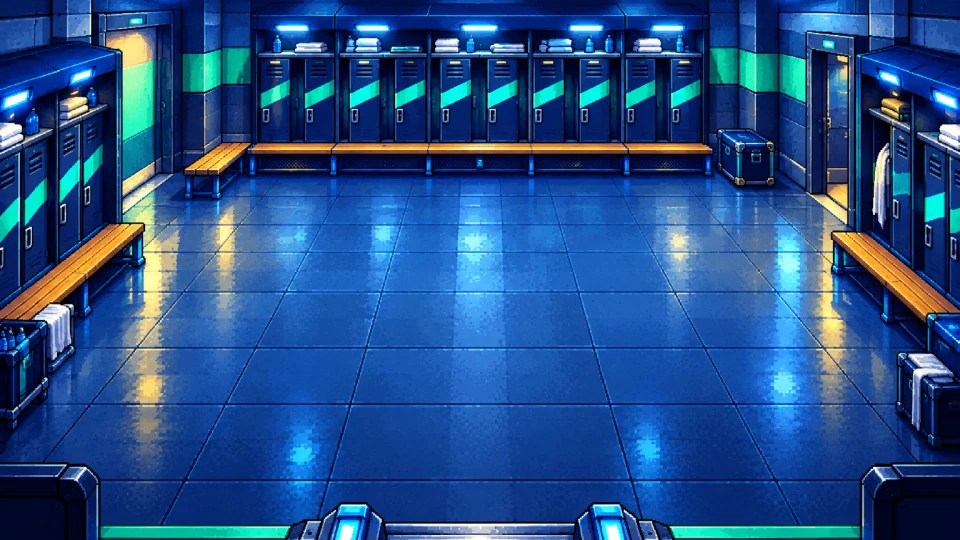
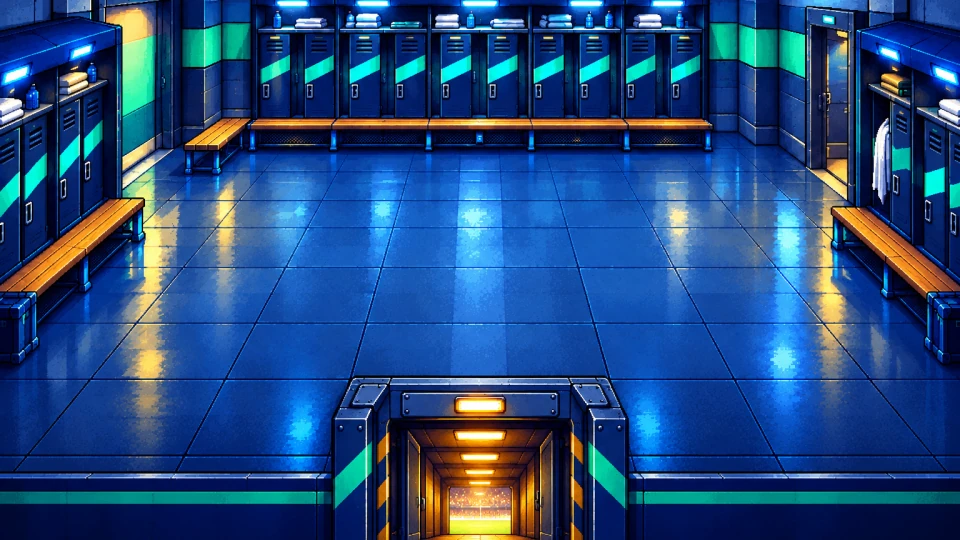
feat: refine ui of locker room and stats in pitch

diff --git a/src/web/pitch/scenes/StatScene.ts b/src/web/pitch/scenes/StatScene.ts
@@ -8,7 +8,6 @@ import { STAT_AXIS_COUNT, axisLabel, isPlaceholderAxis, statSheetFor, type StatA
 import { SILENT_PITCH_AUDIO, type PitchAudioLike } from "../audio/pitchAudio";
 import type { AssetImage, PitchAssets } from "../engine/assets";
 import type { KeyInput, PointerInput, Scene, SceneCtx } from "../engine/sceneManager";
-import { drawNineSlice } from "../engine/sprite";
 import { LOGICAL_HEIGHT, LOGICAL_WIDTH } from "../engine/stage";
 import { drawText, PIXEL_FONT_FAMILY, TEXT_COLORS } from "../engine/text";
 import { cycleAxis, drawHexagon, hitAxis, labelPlateRect, HEX, KIND_COLORS, type AxisStep, type Rect } from "../ui/hexagon";
@@ -16,9 +15,10 @@ import { CHIP_HEIGHT, CHIP_SIZE, DESC_LINE, DESC_SIZE, DETAIL_CONTENT, SIGN_CHIP
 import { VolumePanel } from "../ui/volumePanel";
 import { drawHudButtons, soundState, hudButtonAt, inside, syncSoundState, toggleSound, type HudButtonId } from "./hudCommon";
 
+/** The frame art is drawn this much wider than `STAT_FRAME`, centred (content layout unchanged). */
+const FRAME_EXTRA_WIDTH = 15;
 export const STAT_FRAME: Rect = { x: 32, y: 24, w: 896, h: 492 };
-export const STAT_DETAIL_PANEL: Rect = { x: 512, y: 104, w: 400, h: 392 };
-const FRAME_INSET = 24;
+export const STAT_DETAIL_PANEL: Rect = { x: 494, y: 80, w: 400, h: 392 };
 const HEADER = { x: 56, y: 40, w: 848, h: 48 } as const;
 const RIBBON_ANGLE = (-12 * Math.PI) / 180;
 export const STAT_OPEN_FADE_SECONDS = 0.15;
@@ -36,8 +36,8 @@ const ABILITY_ROW_Y = 290;
 const RIBBON_Y = 328;
 
 /** Header switcher for looking at another player's stats: ◀ name ▶ (Q / E). View only — the played character is unchanged. */
-export const CHAR_PREV_RECT: Rect = { x: 300, y: 76, w: 22, h: 18 };
-export const CHAR_NEXT_RECT: Rect = { x: 478, y: 76, w: 22, h: 18 };
+export const CHAR_PREV_RECT: Rect = { x: 280, y: 76, w: 22, h: 18 };
+export const CHAR_NEXT_RECT: Rect = { x: 458, y: 76, w: 22, h: 18 };
 export type CharStep = -1 | 1;
 
 const HUD_BUTTONS: readonly HudButtonId[] = ["dashboard", "sound"];
@@ -334,7 +334,9 @@ export class StatScene implements Scene {
     const { x, y, w, h } = STAT_FRAME;
     const frame = this.image("ui/terminal-frame");
     if (frame) {
-      drawNineSlice(g, frame, FRAME_INSET, x, y, w, h);
+      // made for exactly this rectangle (896×492): drawn 1:1, never stretched; the interior is x 59~902, y 69~482
+      // shown 10px wider (5px each side); the content positions stay as they are
+      g.drawImage(frame, x - FRAME_EXTRA_WIDTH / 2, y, w + FRAME_EXTRA_WIDTH, h);
       return;
     }
     g.fillStyle = "#0a0a1a";
@@ -353,8 +355,8 @@ export class StatScene implements Scene {
   private drawHeader(g: CanvasRenderingContext2D) {
     const { character } = this;
     const portrait = this.image(`portraits/${character.id}-neutral`);
-    const px = 92;
-    const py = 80;
+    const px = 72;
+    const py = 76;
     g.fillStyle = "#0a0a1a";
     g.fillRect(px - 2, py - 2, 44, 44);
     if (portrait) g.drawImage(portrait, px, py, 40, 40);
@@ -372,9 +374,9 @@ export class StatScene implements Scene {
     g.strokeRect(badgeX + 0.5, badgeY + 0.5, 39, 13);
     drawText(g, this.sheet.position, badgeX + 20, badgeY + 8, { size: 10, align: "center", baseline: "middle" });
     drawText(g, character.positionLabel, badgeX + 48, badgeY + 8, { size: 10, color: "#9fe9ff", baseline: "middle" });
-    drawText(g, "PLAYER STATS", LOGICAL_WIDTH / 2, 63, { size: 20, align: "center", baseline: "middle" });
+    drawText(g, "PLAYER STATS", LOGICAL_WIDTH / 2, 45, { size: 20, align: "center", baseline: "middle" });
     this.drawCharSwitcher(g);
-    drawText(g, "←→ 축 · Tab 다음 · Q/E 선수 · Esc", 300, 106, { size: 10, color: "#9fe9ff", baseline: "middle" });
+    drawText(g, "←→ 축 · Tab 다음 · Q/E 선수 · Esc", 280, 106, { size: 10, color: "#9fe9ff", baseline: "middle" });
   }
 
   private drawCharSwitcher(g: CanvasRenderingContext2D) {
@@ -422,10 +424,10 @@ export class StatScene implements Scene {
     if (this.sheet.axes.some((axis) => axis.kind === "common")) items.push({ color: KIND_COLORS.common, text: "공통 스탯" });
     items.push({ color: KIND_COLORS.unique, text: this.sheet.position === "GK" ? "GK 고유 스탯" : "포지션 고유 스탯" });
     const measure = makeMeasure(g);
-    let x = 56;
+    let x = 70;
     for (const item of items) {
-      drawText(g, "●", x, 486, { size: 10, color: item.color, baseline: "middle" });
-      drawText(g, item.text, x + 14, 486, { size: 10, baseline: "middle" });
+      drawText(g, "●", x, 474, { size: 10, color: item.color, baseline: "middle" });
+      drawText(g, item.text, x + 14, 474, { size: 10, baseline: "middle" });
       x += 14 + Math.ceil(measure(item.text, 10)) + 16;
     }
   }

diff --git a/src/web/pitch/scenes/LockerScene.ts b/src/web/pitch/scenes/LockerScene.ts
@@ -11,7 +11,7 @@ import type { KeyInput, PointerInput, Scene, SceneCtx } from "../engine/sceneMan
 import { drawFrame } from "../engine/sprite";
 import { LOGICAL_HEIGHT, LOGICAL_WIDTH } from "../engine/stage";
 import { drawText, TEXT_COLORS } from "../engine/text";
-import { ANALYZER, EXIT_DOOR, EXIT_DOOR_SCALE, LOCKER_PLAYER_SCALE, LOCKER_SPAWN, PROP_SCALE, nearAnalyzer, nearExit, resolveBoxes } from "../game/locker";
+import { ANALYZER, LOCKER_PLAYER_SCALE, LOCKER_SPAWN, PROP_SCALE, nearAnalyzer, nearExit, resolveBoxes } from "../game/locker";
 import { createPlayer, playerPose, stepPlayer, type PlayerState } from "../game/player";
 import { depthScale } from "../game/tuning";
 import { CharacterSelectScene } from "./CharacterSelectScene";
@@ -241,7 +241,7 @@ export class LockerScene implements Scene {
   render(g: CanvasRenderingContext2D) {
     this.drawBackground(g);
     if (this.ready) {
-      this.drawExitDoor(g);
+      this.drawExitGlow(g);
       this.drawSorted(g);
     } else this.drawLoading(g);
     if (!this.statOpen) {
@@ -251,7 +251,9 @@ export class LockerScene implements Scene {
       g.fillStyle = "rgba(10, 10, 26, 0.85)";
       g.fillRect(Math.round(LOGICAL_WIDTH / 2 - titleW / 2), 24, titleW, 32);
       drawText(g, "LOCKER ROOM", LOGICAL_WIDTH / 2, 40, { size: 20, color: TEXT_COLORS.gold, align: "center", baseline: "middle" });
-      drawText(g, "방향키 이동 · E 상호작용 · Tab 캐릭터 변경 · Esc 나가기", LOGICAL_WIDTH / 2, 496, { size: 10, color: "#9fe9ff", align: "center", baseline: "middle" });
+      // two short lines in the bottom-left wall band (the tunnel mouth takes the middle of the bottom edge)
+      drawText(g, "방향키 이동 · E 상호작용", 16, 510, { size: 10, color: "#9fe9ff", baseline: "middle" });
+      drawText(g, "Tab 캐릭터 변경 · Esc 나가기", 16, 526, { size: 10, color: "#9fe9ff", baseline: "middle" });
     }
     this.drawPromptBubble(g);
     drawHudButtons(g, (key) => this.image(key), HUD_BUTTONS, { hovered: this.hovered, pressed: this.pressed });
@@ -277,14 +279,14 @@ export class LockerScene implements Scene {
     g.restore();
   }
 
-  private drawExitDoor(g: CanvasRenderingContext2D) {
-    const open = this.interaction() === "exit" || this.exiting;
-    const door = this.image(open ? "env/exit-open" : "env/exit-closed");
-    if (door) {
-      const w = Math.round(door.width * EXIT_DOOR_SCALE);
-      const h = Math.round(door.height * EXIT_DOOR_SCALE);
-      g.drawImage(door, Math.round(EXIT_DOOR.baseX - w / 2), Math.round(EXIT_DOOR.baseY - h), w, h);
-    }
+  /** The exit is the tunnel mouth painted into `env/locker-bg` (x 387~572, y 420~540): near it, its warm light pulses brighter. */
+  private drawExitGlow(g: CanvasRenderingContext2D) {
+    if (this.interaction() !== "exit" && !this.exiting) return;
+    g.save();
+    g.globalAlpha = 0.1 + 0.06 * Math.sin(this.clock * 6);
+    g.fillStyle = "#ffc450";
+    g.fillRect(390, 424, 180, 116);
+    g.restore();
   }
 
   /** Props, the analyzer and the player back to front by their feet y. */

diff --git a/src/web/pitch/__tests__/lockerScene.test.ts b/src/web/pitch/__tests__/lockerScene.test.ts
@@ -190,9 +190,9 @@ describe("LockerScene", () => {
     return { ...env, scene, factory, player: () => (scene as unknown as { player: { x: number; y: number } }).player };
   };
 
-  it("enters at (480, 470) with the locker music and a closing door, and loads its group", () => {
+  it("enters at (480, 450) with the locker music and a closing door, and loads its group", () => {
     const { scene, events, loaded, player } = setup();
-    expect(player()).toMatchObject({ x: 480, y: 470 });
+    expect(player()).toMatchObject({ x: 480, y: 450 });
     expect(events).toEqual(expect.arrayContaining(["bgm:locker", "gate-close"]));
     expect(loaded).toEqual(["locker"]);
     expect(() => scene.render(fakeGraphics())).not.toThrow();
@@ -324,10 +324,10 @@ describe("StatScene", () => {
 
   it("selects an axis by clicking its node", () => {
     const { scene, events } = setup();
-    // corner 3 (bottom) is at (276, 444)
-    scene.onPointer({ type: "move", x: 276, y: 444 });
-    scene.onPointer({ type: "down", x: 276, y: 444 });
-    scene.onPointer({ type: "up", x: 276, y: 444 });
+    // corner 3 (bottom) is at (276, 430)
+    scene.onPointer({ type: "move", x: 276, y: 430 });
+    scene.onPointer({ type: "down", x: 276, y: 430 });
+    scene.onPointer({ type: "up", x: 276, y: 430 });
     expect(scene.selectedAxis).toBe(3);
     expect(events).toContain("stat-select");
   });
@@ -380,9 +380,9 @@ describe("StatScene player switcher", () => {
 
   it("switches by clicking the arrows", () => {
     const { scene } = setup();
-    scene.onPointer({ type: "move", x: 489, y: 85 });
-    scene.onPointer({ type: "down", x: 489, y: 85 });
-    scene.onPointer({ type: "up", x: 489, y: 85 });
+    scene.onPointer({ type: "move", x: 469, y: 85 });
+    scene.onPointer({ type: "down", x: 469, y: 85 });
+    scene.onPointer({ type: "up", x: 469, y: 85 });
     expect(scene.viewedCharacter.id).toBe("janine95kim");
   });
 });

diff --git a/src/web/pitch/__tests__/lockerAssets.test.ts b/src/web/pitch/__tests__/lockerAssets.test.ts
@@ -19,7 +19,6 @@ describe("locker gate / room / stat UI assets (A3)", () => {
 
   it("props: stat terminal 3 states 96x128, exit door 2 states 64x96, locker unit 2 states 48x80", () => {
     for (const name of ["terminal-off", "terminal-idle", "terminal-active"]) expect(size(`env/${name}`)).toMatchObject({ w: 96, h: 128 });
-    for (const name of ["exit-closed", "exit-open"]) expect(size(`env/${name}`)).toMatchObject({ w: 64, h: 96 });
     for (const name of ["locker-unit", "locker-unit-open"]) expect(size(`env/${name}`)).toMatchObject({ w: 48, h: 80 });
     expect(size("env/bench")).toMatchObject({ w: 96, h: 40 });
     expect(size("env/whiteboard")).toMatchObject({ w: 56, h: 72 });
@@ -33,7 +32,8 @@ describe("locker gate / room / stat UI assets (A3)", () => {
     expect(size("ui/node-selected")).toMatchObject({ w: 16, h: 16 });
     expect(size("ui/detail-panel")).toMatchObject({ w: 400, h: 392 });
     expect(size("ui/detail-panel").slice).toBeUndefined();
-    expect(size("ui/terminal-frame").slice).toBe(24);
+    expect(size("ui/terminal-frame")).toMatchObject({ w: 896, h: 492 });
+    expect(size("ui/terminal-frame").slice).toBeUndefined();
     expect(size("ui/coming-soon")).toMatchObject({ w: 216, h: 40 });
     expect(size("ui/axis-plate")).toMatchObject({ w: 72, h: 22 });
   });
@@ -52,6 +52,6 @@ describe("locker gate / room / stat UI assets (A3)", () => {
       expect(spec.bytes, spec.key).toBeGreaterThan(0);
     }
     const keys = specs.map((spec) => spec.key);
-    for (const key of ["env/locker-bg", "env/terminal-idle", "env/exit-open", "ui/hex-frame", "ui/detail-panel", "ui/coming-soon", "ui/icon-question"]) expect(keys).toContain(key);
+    for (const key of ["env/locker-bg", "env/terminal-idle", "ui/hex-frame", "ui/detail-panel", "ui/coming-soon", "ui/icon-question"]) expect(keys).toContain(key);
   });
 });

diff --git a/src/web/pitch/game/locker.ts b/src/web/pitch/game/locker.ts
@@ -26,17 +26,16 @@ export const GATE_SPAWN = { x: 215, y: 440 } as const;
 
 /** Walkable floor of the locker room and where the player enters (03 §4). */
 /** The back row of furniture (2× props) stands on y=240, so the floor starts below it. */
-export const LOCKER_AREA = { minX: 80, maxX: 880, minY: 250, maxY: 500 } as const;
-export const LOCKER_SPAWN = { x: 480, y: 470 } as const;
+export const LOCKER_AREA = { minX: 80, maxX: 880, minY: 250, maxY: 468 } as const;
+export const LOCKER_SPAWN = { x: 480, y: 450 } as const;
 
 /** Sprite anchors (bottom centre; the analyzer's top-left is (200, 266) for its 96×128 sprite — 05 §7). */
 export const ANALYZER = { baseX: 712, baseY: 394, interactRadius: 64 } as const;
 /** The player and the exit door are drawn larger in the locker room. */
 export const LOCKER_PLAYER_SCALE = 1.5;
-export const EXIT_DOOR_SCALE = 1.5;
 /** Every other prop (not the analyzer) is drawn 2×. */
 export const PROP_SCALE = 2;
-export const EXIT_DOOR = { baseX: 480, baseY: 490, interactRadius: 60 } as const;
+export const EXIT_DOOR = { baseX: 480, baseY: 478, interactRadius: 60 } as const;
 
 export const ANALYZER_ZONE: Circle = { x: ANALYZER.baseX, y: ANALYZER.baseY, r: ANALYZER.interactRadius };
 export const EXIT_ZONE: Circle = { x: EXIT_DOOR.baseX, y: EXIT_DOOR.baseY, r: EXIT_DOOR.interactRadius };
@@ -63,7 +62,7 @@ export const nearExit = (x: number, y: number) => withinCircle(x, y, EXIT_ZONE);
  */
 export const LOCKER_COLLIDERS: readonly Box[] = [
   { x: 0, y: 0, w: 150, h: 300 },
-  { x: 835, y: 0, w: 125, h: 325 },
+  { x: 835, y: 0, w: 125, h: 365 },
   // stat analyzer (base 248,394): only its base is solid, the player can stand behind it
   { x: 672, y: 368, w: 80, h: 26 },
   // kit bag; the back-wall furniture is behind the walkable floor

diff --git a/src/web/pitch/data/assetMeta.generated.ts b/src/web/pitch/data/assetMeta.generated.ts
@@ -68,7 +68,7 @@ export const PITCH_ASSET_META: Readonly<Record<string, PitchAssetMeta>> = {
   "env/hurdle": { bytes: 1004, w: 40, h: 32 },
   "env/kitbag": { bytes: 2418, w: 40, h: 32 },
   "env/ladder": { bytes: 766, w: 64, h: 24 },
-  "env/locker-bg": { bytes: 127662, w: 960, h: 540 },
+  "env/locker-bg": { bytes: 124020, w: 960, h: 540 },
   "env/locker-unit-open": { bytes: 5578, w: 48, h: 80 },
   "env/locker-unit": { bytes: 4604, w: 48, h: 80 },
   "env/pitch-bg": { bytes: 136990, w: 960, h: 540 },
@@ -167,7 +167,7 @@ export const PITCH_ASSET_META: Readonly<Record<string, PitchAssetMeta>> = {
   "ui/confirm-pressed": { bytes: 11958, w: 216, h: 48 },
   "ui/confirm": { bytes: 12554, w: 216, h: 48 },
   "ui/corner-bracket": { bytes: 764, w: 24, h: 24 },
-  "ui/detail-panel": { bytes: 17758, w: 400, h: 392 },
+  "ui/detail-panel": { bytes: 17966, w: 400, h: 392 },
   "ui/dialog-small": { bytes: 11462, w: 140, h: 79, slice: 8 },
   "ui/divider-h": { bytes: 1546, w: 200, h: 6 },
   "ui/divider-v": { bytes: 1520, w: 6, h: 120 },
@@ -241,7 +241,7 @@ export const PITCH_ASSET_META: Readonly<Record<string, PitchAssetMeta>> = {
   "ui/sweet-spot": { bytes: 1126, w: 64, h: 36 },
   "ui/tab-header": { bytes: 3940, w: 126, h: 28, slice: 8 },
   "ui/tag-current": { bytes: 1586, w: 56, h: 16 },
-  "ui/terminal-frame": { bytes: 34660, w: 231, h: 164, slice: 24 },
+  "ui/terminal-frame": { bytes: 21584, w: 896, h: 492 },
   "ui/title-logo": { bytes: 70350, w: 480, h: 160 },
   "ui/tooltip": { bytes: 4002, w: 80, h: 48, slice: 8 },
 };

diff --git a/src/web/pitch/ui/hexagon.ts b/src/web/pitch/ui/hexagon.ts
@@ -19,7 +19,7 @@ export interface Rect {
 }
 
 /** Centre and circumradius of the hexagon in logical px (03 §5). */
-export const HEX = { cx: 276, cy: 304, radius: 140, rings: 6 } as const;
+export const HEX = { cx: 276, cy: 290, radius: 140, rings: 6 } as const;
 
 /** The polygon stands for this fraction of every axis until real values exist (03 §5 "60% 균일"). */
 export const PLACEHOLDER_FILL = 0.6;
@@ -32,12 +32,12 @@ export const SELECTED_NODE_INSET = 23;
  * frame's bolts. Index = axis: 12 o'clock, 2, 4~5, 6, 7~8, 10 o'clock.
  */
 export const NODE_NUDGE: ReadonlyArray<Readonly<{ x: number; y: number }>> = [
-  { x: 0, y: -2 },
+  { x: -1, y: -2 },
   { x: 6, y: 7 },
-  { x: 6, y: -2 },
+  { x: 6, y: -3 },
   { x: -1, y: -1 },
-  { x: -6, y: -2 },
-  { x: -6, y: 7 },
+  { x: -6, y: -3 },
+  { x: -7, y: 7 },
 ];
 export const AXIS_PLATE = { w: 72, h: 22 } as const;
 /** Distance between a corner and its label plate. */

diff --git a/src/web/pitch/engine/assets.ts b/src/web/pitch/engine/assets.ts
@@ -55,7 +55,7 @@ const SELECT_KEYS = [
 ];
 
 const LOCKER_KEYS = [
-  ...ids("env", ["locker-bg", "terminal-off", "terminal-idle", "terminal-active", "exit-closed", "exit-open", "locker-unit", "locker-unit-open", "bench", "whiteboard", "cooler", "kitbag", "bootrack"]),
+  ...ids("env", ["locker-bg", "terminal-off", "terminal-idle", "terminal-active", "locker-unit", "locker-unit-open", "bench", "whiteboard", "cooler", "kitbag", "bootrack"]),
   ...ids("ui", ["hex-bg", "hex-frame", "hex-fill", "node-normal", "node-hover", "node-selected", "axis-plate", "detail-panel", "coming-soon", "terminal-frame", "scan-line", "padlock"]),
   ...ids("ui", ["icon-hexagon", "icon-question", "icon-locker"]),
 ];

diff --git a/src/web/pitch/__tests__/locker.test.ts b/src/web/pitch/__tests__/locker.test.ts
@@ -59,8 +59,8 @@ describe("locker room interaction radii", () => {
     expect(withinCircle(0, 0, { x: 3, y: 4, r: 5 })).toBe(true);
   });
 
-  it("starts the player at (480, 470), inside the exit prompt and clear of the analyzer", () => {
-    expect(LOCKER_SPAWN).toEqual({ x: 480, y: 470 });
+  it("starts the player at (480, 450), inside the exit prompt and clear of the analyzer", () => {
+    expect(LOCKER_SPAWN).toEqual({ x: 480, y: 450 });
     expect(lockerTargetAt(LOCKER_SPAWN.x, LOCKER_SPAWN.y)).toBe("exit");
     expect(lockerTargetAt(480, 300)).toBeNull();
   });

diff --git a/docs/pitch/03-screens-and-ui.md b/docs/pitch/03-screens-and-ui.md
@@ -86,13 +86,13 @@
 | 요소 | 위치/크기 | 설명 |
 | --- | --- | --- |
 | 배경 | 전체 | `locker-bg` |
-| 플레이어 | 스폰 (480, 470) → 방향키 이동 | 볼 없음(idle/run 클립, 스프린트 없음), 걷기 영역 x 80~880, y **250**~500(뒤쪽 소품 줄이 y 240). 캐릭터는 락커룸에서 **1.5배**. 충돌 = 발 위치가 바닥 상자(`game/locker.ts` `LOCKER_COLLIDERS`, 발 여유 좌우 10·상하 4)에 들어가지 못함 |
+| 플레이어 | 스폰 (480, 470) → 방향키 이동 | 볼 없음(idle/run 클립, 스프린트 없음), 걷기 영역 x 80~880, y **250**~468(아래 벽띠 위)(뒤쪽 소품 줄이 y 240). 캐릭터는 락커룸에서 **1.5배**. 충돌 = 발 위치가 바닥 상자(`game/locker.ts` `LOCKER_COLLIDERS`, 발 여유 좌우 10·상하 4)에 들어가지 못함 |
 | **스탯 분석기** | **오른쪽으로 이동**: 하단 중앙 (712, 394), 좌상단 (664, 266), 스프라이트 96×128(1배 유지) | 3상태: OFF(입장 후 0.5s) → IDLE(글로우, 이후 항상) → ACTIVE(스탯 화면이 열려 있는 동안 + 닫힌 뒤 0.25s). 충돌은 바닥 80×26 만 → 뒤로 지나갈 수 있음 |
 | 상호작용 반경 | **분석기 하단 중앙 (712, 394) 기준** r=64 | `E 스탯 확인` 프롬프트. 원안은 스프라이트 중심 (248, 330) 기준이었으나, 남쪽(입장 방향)에서 다가가면 충돌 상자 때문에 반경에 못 들어가므로 발밑 기준으로 정정 |
-| 출구 문(게이트) | 하단 중앙 (480, 490) 스프라이트 64×96 **1.5배** | 반경 60: `E 피치로 나가기`, 가까워지면 `exit-open`. 배경 바로 위에 그려 플레이어는 항상 문 앞에 그려짐 |
+| 출구 | **배경 그림에 그려진 하단 중앙 터널 입구**(`env-locker-bg-v2`, 별도 문 스프라이트 없음 — `exit-closed/open` 은 미사용) 기준점 (480, 478) | 반경 60: `E 피치로 나가기`, 가까워지면 터널 입구에 따뜻한 빛(주황 반투명 사각형 0.04~0.16 맥동)이 켜진다. 배경 바로 위에 그려 플레이어는 항상 문 앞에 그려짐 |
 | 벤치·사물함·전술판·냉수기·킷백·부츠랙 | 배경 위 소품 스프라이트(하단 중앙 앵커, y 정렬) | 충돌 있음. **분석기 제외 소품은 전부 2배**. 뒤쪽 줄(y 240 하단 앵커, 걷지 못함): 냉수기 (256,190)·전술판 (352,205)(둘 다 좌우반전, 자리 교체, 사이 8px) · 부츠랙 (580,217) · 사물함1 (677,238)·사물함2 (760,240)(사물함1 이 사물함2 와 13px 겹치고 뒤에 그려짐). **벤치는 제거**. 킷백 (775,420)(분석기와 겹치고 앞에 그려짐). 배치는 눈대중(사용자 확인). 배경 그림에 이미 있는 좌우 벽 사물함·비스듬한 벤치는 큰 충돌 상자 2개로 막음 |
 | 제목 | (480, 40) 중앙 | `LOCKER ROOM` 캔버스 텍스트 |
-| 안내 | 하단 (480, 496) | `방향키 이동 · E 상호작용 · Tab 캐릭터 변경 · Esc 나가기` |
+| 안내 | 왼쪽 아래 두 줄 (16, 510)·(16, 526) — 가운데는 터널 입구 | `방향키 이동 · E 상호작용 · Tab 캐릭터 변경 · Esc 나가기` |
 | 버튼 | 우상단 | 대시보드 (732,16)·소리 (684,20)·캐릭터 변경 (732,72) — 피치와 같은 자리(`scenes/hudCommon.ts`) |
 
 - 진입 시 플레이어는 출구 문 앞 (480, 470) 에서 시작(위를 봄). 출구 `E`(또는 어디서나 `Esc`) → `gate-open`·`transition-wipe` + 와이프 → `PitchScene`, 플레이어는 **게이트 앞(170, 470)** 에 스폰(볼은 발 앞, 스코어·힌트 표시는 유지). 입장 때 `gate-close` 소리와 BGM `locker`. `locker` 그룹이 아직 없으면 배경 자리에 `락커룸 불러오는 중…` 이 뜬다.

diff --git a/docs/pitch/05-art-world-and-ui.md b/docs/pitch/05-art-world-and-ui.md
@@ -352,12 +352,12 @@ A1 `--all` 이 5개 시트(locker-gate·locker-bg·locker-props·ui-stat·ui-ico
 | `env/exit-closed`·`exit-open` | 64×96 2상태 | 하단 중앙 = 문 바닥, 03 §4 출구 (480, 520) 를 바닥 중앙으로 취급 |
 | `env/locker-unit`·`locker-unit-open` | 48×80 2상태 | 하단 중앙 |
 | `env/bench` 96×40 · `whiteboard` 56×72 · `cooler` 32×48 · `kitbag` 40×32 · `bootrack` 48×32 | 그림자 없음 | 하단 중앙, 충돌 박스는 하단 절반 |
-| `env/locker-bg` | 960×540 불투명 | 전체 |
+| `env/locker-bg` | 960×540 불투명 — **재생성본 `env-locker-bg-v2.png`**(1536×1024)를 매니페스트 `anchorY 0.75`(위에서 120px 부터 16:9 밴드)로 크롭해 아래 터널 입구가 잘리지 않게 변환 | 전체. 아래 중앙 터널 입구 = 출구(x 387~572, y 420~540) |
 | `ui/hex-bg`·`hex-fill` 280×280 · `hex-frame` 320×280 | 꼭짓점 12시(뾰족한 위) 육각형, 알파 bbox 가 세로로 꽉 참 | **셋 다 중앙 정렬**로 육각형 중심 (276, 304) 에 겹친다. 육각형 꼭짓점 노드가 이미지에 포함돼 있으므로 노드 스프라이트는 선택/호버 상태 표시로만 덧그림 |
 | `ui/node-normal` 12 · `node-hover` 16 · `node-selected` 16 | 정사각 | 중앙 정렬 |
 | `ui/axis-plate` | 72×22, 평행사변형 금색 판 | 라벨 판, 늘려서 맞춤(fill) |
-| `ui/detail-panel` | **400×392 고정(재생성본, 늘리지 않고 1:1 로 그림)** — 헤더 칸 안쪽 x 93~309·y 27~66, 본문 y 75~350. 원본 `tmp/pitch-src/ui/detail-panel.png`(1254², 마젠타 배경)를 마젠타 제거·여백 트림·400×392 축소·알파 이진화로 직접 변환했다(`ui-stat` 시트 재변환 시 옛 220×149 로 덮어써지니 매니페스트 항목을 고치거나 이 파일만 다시 변환할 것) | 패널 크기 = `STAT_DETAIL_PANEL` 400×392 |
-| `ui/terminal-frame` | 231×164, 9-slice 인셋 24 | 03 §5 의 896×492 로 늘림(모서리 볼트는 24px 고정) |
+| `ui/detail-panel` | **400×392 고정(재생성본, 늘리지 않고 1:1 로 그림)** — 헤더 칸 안쪽 x 93~309·y 27~66, 본문 y 75~350. 원본 `tmp/pitch-src/ui/detail-panel.png`(1254², 투명 배경 재생성본)를 알파 2px 침식(색 번짐 제거)·여백 트림·400×392 축소·알파 이진화로 직접 변환했다(`ui-stat` 시트 재변환 시 옛 220×149 로 덮어써지니 매니페스트 항목을 고치거나 이 파일만 다시 변환할 것) | 패널 크기 = `STAT_DETAIL_PANEL` 400×392 |
+| `ui/terminal-frame` | **896×492 고정(재생성본, 늘리지 않고 1:1)** — 프레임 안쪽(어두운 남색 본문)은 그림 기준 x 27~870·y 45~458, 즉 화면 좌표 x 59~902·y 69~482. 원본 `tmp/pitch-src/ui/terminal-frame.png`(1692×929, 투명 배경 — 가장자리 색 번짐 제거용으로 알파 2px 침식)를 트림·896×492 축소·알파 이진화로 직접 변환(`ui-stat` 시트 재변환 시 옛 231×164 로 덮어써지니 매니페스트 항목을 고칠 것) | 03 §5 의 프레임 |
 | `ui/coming-soon` 216×40 · `padlock` 16×16 · `scan-line` 320×8 | 중앙 정렬 / scan-line 은 가로 채움 | |
 | `ui/icon-*` | 24개 전부 24×24 | 중앙 정렬 |
 

diff --git a/docs/pitch/README.md b/docs/pitch/README.md
@@ -169,3 +169,12 @@
 | 2026-09-25 | P6(조정 22) | `SELECTED_NODE_INSET` 50→23(링·선택 마커를 바깥 볼트 쪽으로 27px 되돌림) | 03 §5 | — |
 | 2026-09-25 | P6(조정 23) | 육각형 링·선택 마커 축별 미세 조정 `NODE_NUDGE`(12시 (0,−2)·2시 (4,4)·4~5시 (3,−2)·6시 (0,−1)·7~8시 (−3,−2)·10시 (−4,4)) | 03 §5 | — |
 | 2026-09-25 | P6(조정 24) | `NODE_NUDGE` 추가 보정 → 12시 (0,−2)·2시 (6,7)·4~5시 (6,−2)·6시 (−1,−1)·7~8시 (−6,−2)·10시 (−6,7) | 03 §5 | — |
+| 2026-09-25 | P6(에셋 교체 2) | `ui/terminal-frame` 을 재생성본(896×492 고정)으로 교체. 안쪽 여백에 맞춰 육각형 중심 (276,304)→(276,290), 설명 패널 (512,104)→(494,80), 헤더 초상화 y 76, `PLAYER STATS` y 48, 범례 y 474·x 70 | 03 §5, 05 §7 | 화면 확인은 사용자 |
+| 2026-09-25 | P6(에셋 교체 3) | `ui/terminal-frame` 을 투명 배경 재생성본(1692×929)으로 다시 교체 — 알파 ≥200 마스크 2px 침식으로 가장자리 색 번짐 제거 후 896×492 로 변환(안쪽 여백은 이전과 ±3px 로 같아 배치 변경 없음) | 05 §7 | — |
+| 2026-09-25 | P6(조정 25) | `PLAYER STATS` y 48→45 | 03 §5 | — |
+| 2026-09-25 | P6(에셋 교체 4) | 락커룸 배경을 `env-locker-bg-v2`(아래 중앙 터널 입구 포함)로 교체 — 변환기에 `anchorY` 옵션 추가(매니페스트 `locker-bg` 0.75). **출구 문 스프라이트 제거**(`exit-closed/open` 를 locker 그룹에서 뺌, 파일은 남김) → 출구 기준 (480,478)·걷기 영역 y ≤ 468·스폰 (480,450), 다가가면 코드 글로우, 하단 안내를 왼쪽 두 줄로, 우측 벽 충돌 상자 h 365. 매니페스트의 `detail-panel`·`terminal-frame` `slice` 옵션 제거(재생성본은 고정 크기) | 03 §4, 05 §7 | 화면 확인은 사용자 |
+| 2026-09-25 | P6(조정 26) | 스탯 `terminal-frame` 그림만 가로 +10px(좌우 5px)로 표시, 안쪽 콘텐츠 좌표는 그대로 | 03 §5 | — |
+| 2026-09-25 | P6(에셋 교체 5) | `ui/detail-panel` 을 투명 배경 재생성본으로 재교체(구도 동일 → 글자 배치 변경 없음), 알파 2px 침식 후 400×392 | 05 §7 | — |
+| 2026-09-25 | P6(조정 27) | 스탯 `terminal-frame` 표시 너비 추가 +5px(총 +15px, 좌우 7.5px) | 03 §5 | — |
+| 2026-09-25 | P6(조정 28) | `NODE_NUDGE` 보정 → 12시 (−1,−2)·2시 (6,7)·5시 (6,−3)·6시 (−1,−1)·7시 (−6,−3)·11시 (−7,7) | 03 §5 | — |
+| 2026-09-25 | P6(조정 29) | 스탯 화면 헤더(초상화·이름·포지션, 캐릭터 이전/다음 UI, 키 안내)를 왼쪽으로 20px(초상화 x 72, 화살표 280/458, 안내 x 280) | 03 §5 | — |
